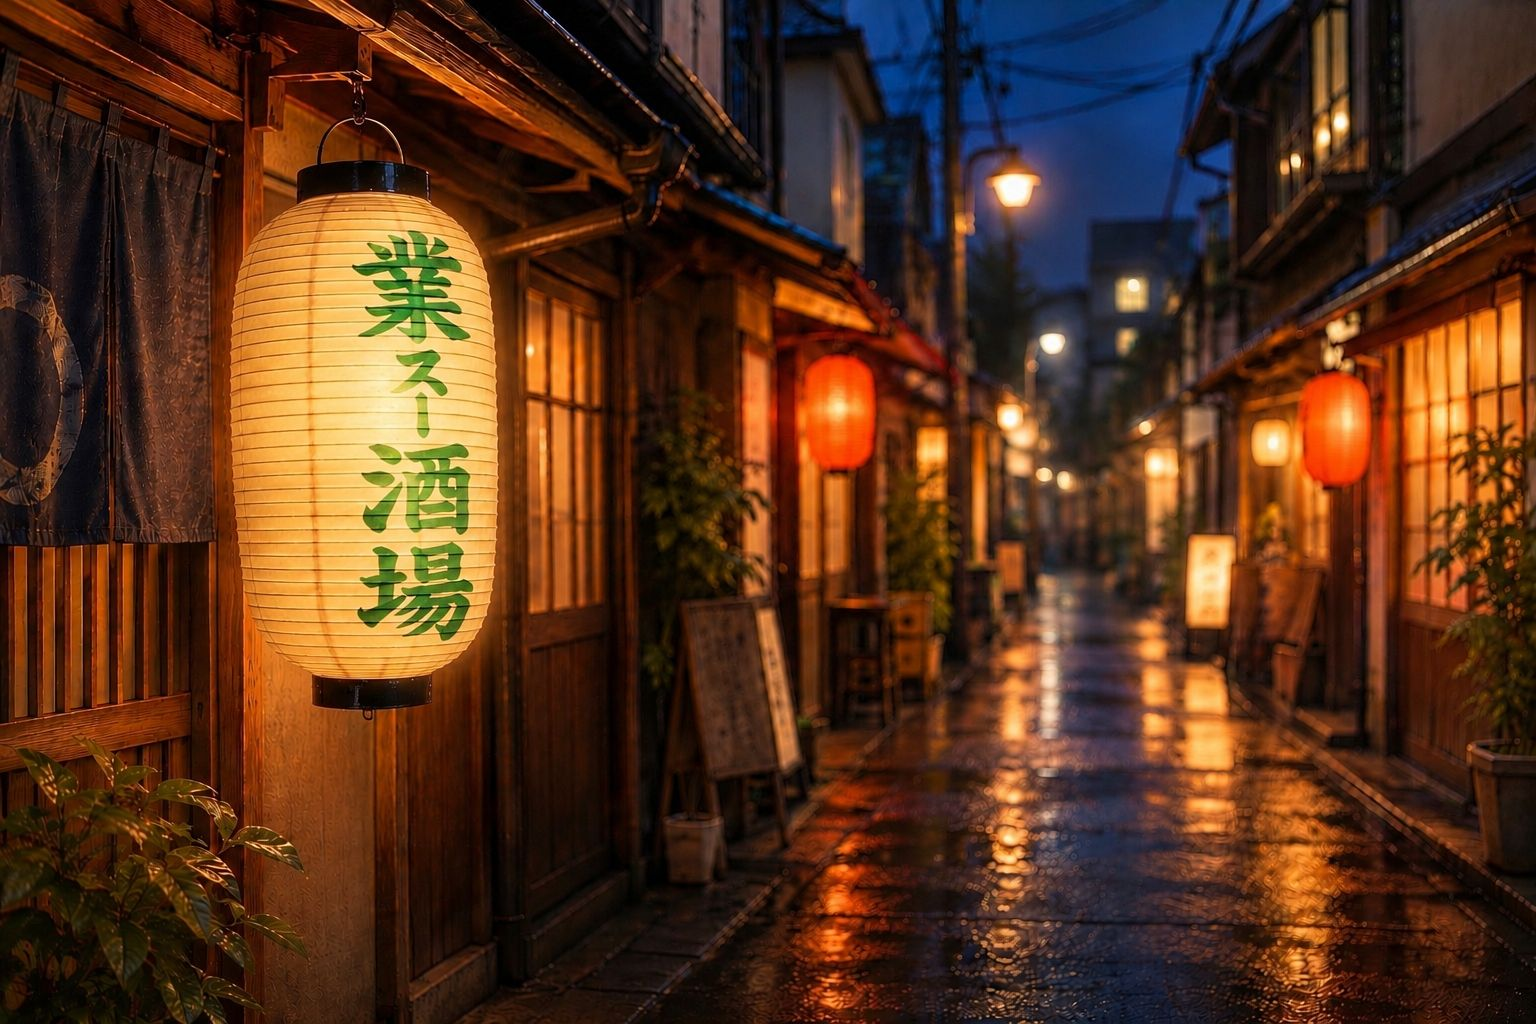
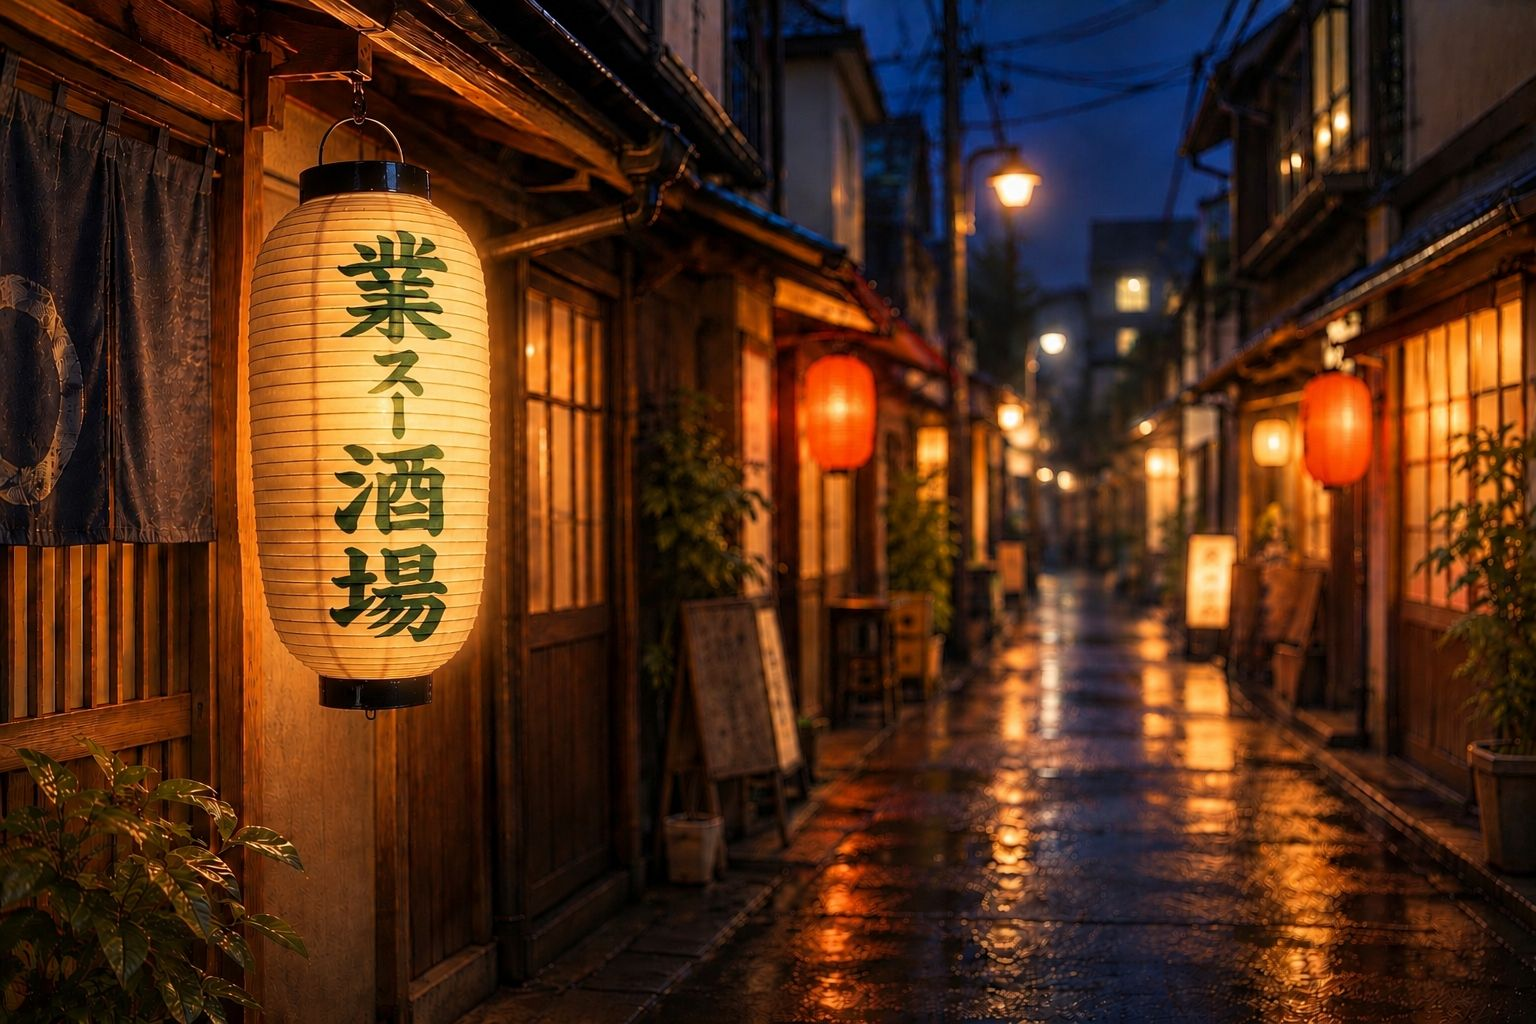
ページ上部の絵を、文字の緑を深くした版（v6）に差し替える
文字の緑を「昼はアイコンの緑、夜は暗く沈む」色にし、左の端を暗く、文字の
列を提灯の中心寄りにした版。

Claude-Session: https://claude.ai/code/session_01NVsEU1RmB8DQTccszYKfjE

diff --git a/design/README.md b/design/README.md
@@ -6,8 +6,8 @@
 | `chochin-prompt.md` | 提灯の絵を ChatGPT に頼むプロンプト |
 | `chochin-chatgpt-original.png` | ChatGPT が作った提灯の絵（2026-10-31）。採用。「スー」は縦中横（横並び）、背景は黒（夜に灯っている表現） |
 | `alley-prompt.md` | 夜の路地の絵（ページ上部の背景）を ChatGPT に頼むプロンプト |
-| `alley-lantern-text-prompt.md` | 路地の絵の提灯の文字を、曲面と灯りになじませて描き直してもらうプロンプト（2026-11-01、4回） |
-| `alley-lantern-text-v2.png`〜`v5.png` | その描き直しの途中の絵。**v5 を採用**し、ページ上部の絵を差し替えた |
+| `alley-lantern-text-prompt.md` | 路地の絵の提灯の文字を、曲面と灯りになじませて描き直してもらうプロンプト（2026-11-01、5回） |
+| `alley-lantern-text-v2.png`〜`v6.png` | その描き直しの途中の絵。**v6 を採用**し、ページ上部の絵を差し替えた |
 | `alley-chatgpt-original.png` | ChatGPT が作った夜の路地の絵（2026-10-31）。採用。ページ上部の背景にした（`site/assets/hero-768.jpg`・`hero-1536.jpg` は縮めて軽くしたもの）。文字を重ねる下の方の暗いグラデーションはページ側（`site/template.html` の `.hero`）でかけている |
 | `logo-chatgpt-original.webp` | ChatGPT が作ったロゴの元の画像（2026-10-30）。文字以外の緑（円・マスの線）があったので、Claude が消して `site/assets/logo-mark.png` にした。アイコン（タブ・ホーム画面）に使う。ページ上部は夜の路地の絵にしたので、ページには出していない |
 

diff --git a/STATUS.md b/STATUS.md
@@ -67,7 +67,7 @@
 
 - 2026-11-01: PR #17 をマージ。路地の絵の提灯の文字が平らに見える（曲面・灯りに合っていない）ので、文字だけを描き直してもらうプロンプトを作った → `design/alley-lantern-text-prompt.md`。できたらページ上部の絵を差し替える
 
-- 2026-11-01: 路地の絵の提灯を ChatGPT で4回描き直した（文字を曲面と灯りになじませる → 右側が遠くに見えるように → 提灯を路地の方へ20〜30度回す → 細長くなったので太さを戻す）。v5 を採用し、ページ上部の絵を差し替えた → `design/alley-lantern-text-prompt.md`
+- 2026-11-01: 路地の絵の提灯を ChatGPT で5回描き直した（文字を曲面と灯りになじませる → 右側が遠くに見えるように → 提灯を路地の方へ20〜30度回す → 細長くなったので太さを戻す → 文字の緑を「昼はアイコンの緑、夜は暗く沈む」色に、左の端を暗く、文字を中心寄りに）。v6 を採用し、ページ上部の絵を差し替えた → `design/alley-lantern-text-prompt.md`
 
 ## 次にやること
 
